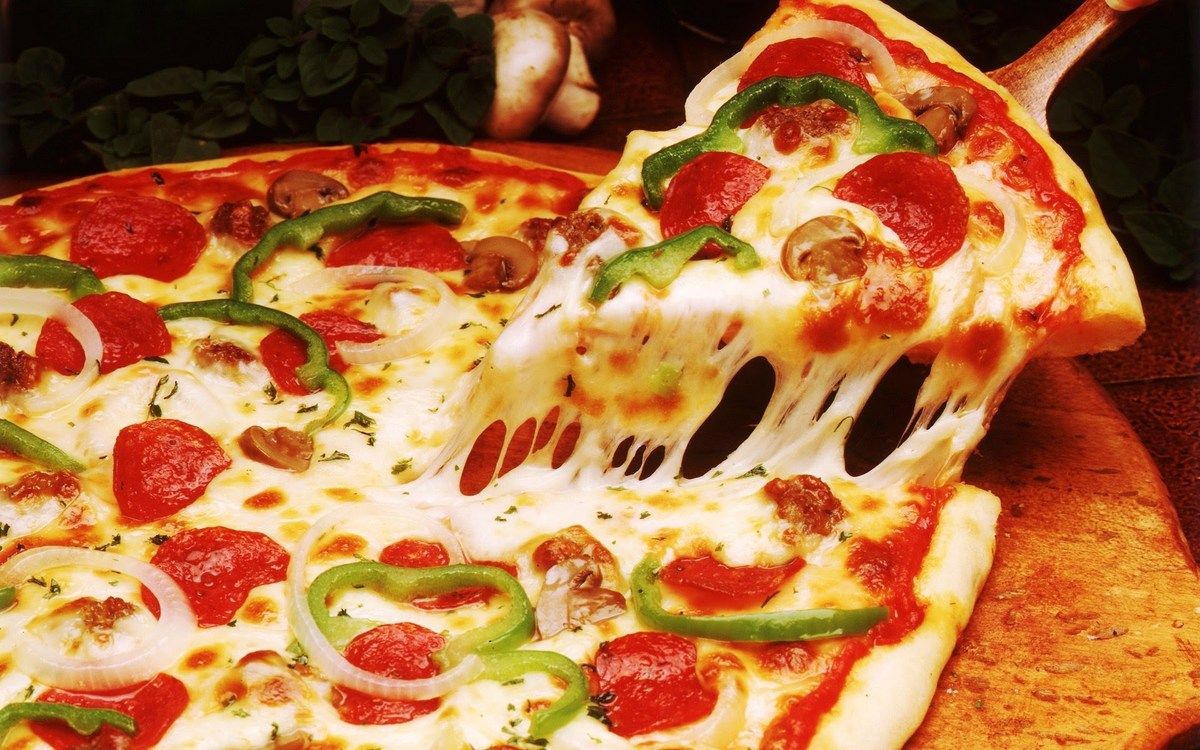
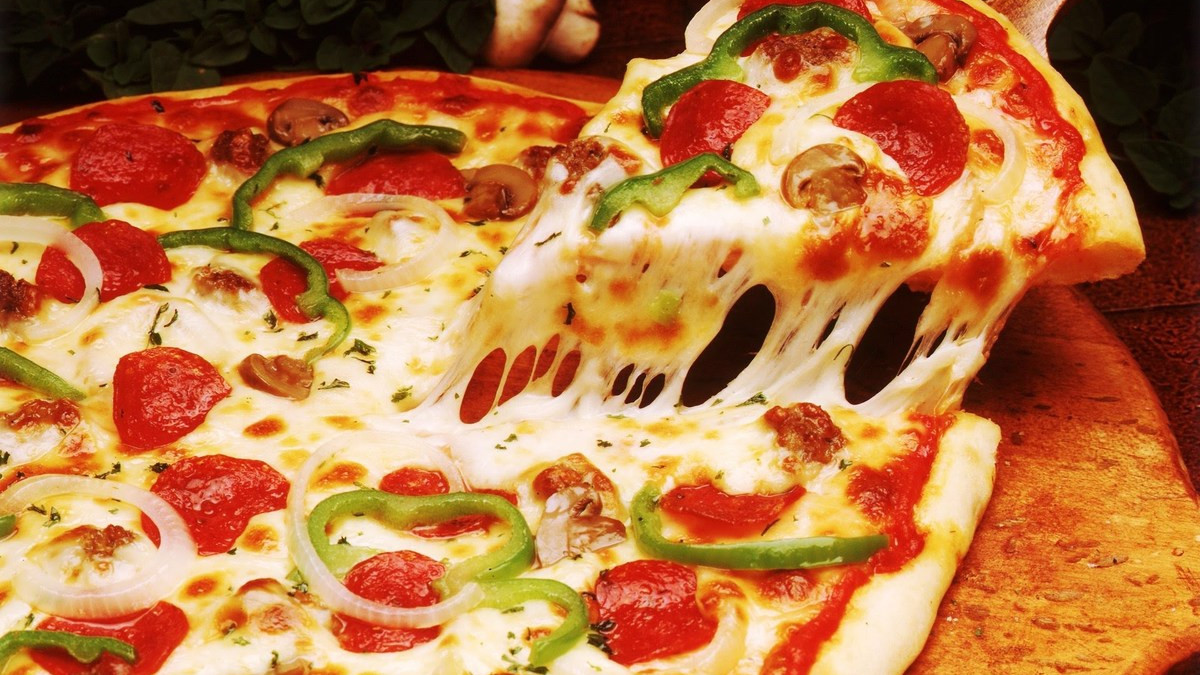
v0.4 anchor on pizza flavours

diff --git a/pizza.html b/pizza.html
@@ -35,7 +35,7 @@
 
 <!-- Header -->
 <header class="w3-display-container w3-content w3-wide" style="max-width:1500px;" id="home">
-  <img class="w3-image" src="./imgs/pizza.jpg" alt="Pizza" width="1500" height="800">
+  <img class="w3-image" src="./imgs/pizza.jpg" alt="Pizza" width="1500" height="800" id="pizzaImage">
   <div class="w3-display-middle w3-margin-top w3-center">
     <h1 class="w3-xxlarge w3-text-white"><span class="w3-padding w3-black w3-opacity-min"><b>Centennial</b></span> <span class="w3-hide-small w3-text-light-grey">pizza</span></h1>
   </div>
@@ -51,37 +51,47 @@
 
   <div class="w3-row-padding">
     <div class="w3-col l3 m6 w3-margin-bottom">
-      <div class="w3-display-container">
-        <div class="w3-display-topleft w3-black w3-padding">Cheddar Supreme</div>
-        <img src="./imgs/cheddar.jpg" alt="Cheddar Supreme" style="width:100%">
-      </div>
+      <a href="#" onClick="onFlavourClick(this)" id="acheddar">
+        <div class="w3-display-container">
+          <div class="w3-display-topleft w3-black w3-padding">Cheddar Supreme</div>
+          <img src="./imgs/cheddar.jpg" alt="Cheddar Supreme" style="width:100%">
+        </div>
+      </a>
     </div>
     <div class="w3-col l3 m6 w3-margin-bottom">
-      <div class="w3-display-container">
-        <div class="w3-display-topleft w3-black w3-padding">Super Hawaiian</div>
-        <img src="./imgs/hawaiian.jpg" alt="Super Hawaiian" style="width:100%">
-      </div>
+      <a href="#" onClick="onFlavourClick(this)" id="ahawaiian">
+        <div class="w3-display-container">
+          <div class="w3-display-topleft w3-black w3-padding">Super Hawaiian</div>
+          <img src="./imgs/hawaiian.jpg" alt="Super Hawaiian" style="width:100%">
+        </div>
+      </a>
     </div>
     <div class="w3-col l3 m6 w3-margin-bottom">
-      <div class="w3-display-container">
-        <div class="w3-display-topleft w3-black w3-padding">Meat Supreme</div>
-        <img src="./imgs/meat.jpg" alt="Meat Supreme" style="width:100%">
-      </div>
+      <a href="#" onClick="onFlavourClick(this)" id="ameat">
+        <div class="w3-display-container">
+          <div class="w3-display-topleft w3-black w3-padding">Meat Supreme</div>
+          <img src="./imgs/meat.jpg" alt="Meat Supreme" style="width:100%">
+        </div>
+      </a>
     </div>
     <div class="w3-col l3 m6 w3-margin-bottom">
-      <div class="w3-display-container">
-        <div class="w3-display-topleft w3-black w3-padding">Veggie</div>
-        <img src="./imgs/veggie.jpg" alt="Veggie" style="width:100%">
-      </div>
+      <a href="#" onClick="onFlavourClick(this)" id="aveggie">
+        <div class="w3-display-container">
+          <div class="w3-display-topleft w3-black w3-padding">Veggie</div>
+          <img src="./imgs/veggie.jpg" alt="Veggie" style="width:100%">
+        </div>
+      </a>
     </div>
   </div>
 
   <div class="w3-row-padding">
     <div class="w3-col l3 m6 w3-margin-bottom">
-      <div class="w3-display-container">
-        <div class="w3-display-topleft w3-black w3-padding">Chocolate Tropical</div>
-        <img src="./imgs/choco.jpg" alt="Chocolate Tropical" style="width:99%">
-      </div>
+      <a href="#" onClick="onFlavourClick(this)" id="achoco">
+        <div class="w3-display-container">
+          <div class="w3-display-topleft w3-black w3-padding">Chocolate Tropical</div>
+          <img src="./imgs/choco.jpg" alt="Chocolate Tropical" style="width:99%">
+        </div>
+      </a>
     </div>
 
     <!--
@@ -170,6 +180,5 @@
   <p>Powered by <a href="https://www.w3schools.com/w3css/default.asp" title="W3.CSS" target="_blank" class="w3-hover-text-green">w3.css</a></p>
 </footer>
 -->
-
 <script src="./architects_files/js"></script>
 </body></html>

diff --git a/pizza.js b/pizza.js
@@ -1,0 +1,33 @@
+const CHEDDAR_IMG="./imgs/cheddar.jpg"
+
+function test() {
+  console.log('on function test')
+}
+
+function onFlavourClick(elt) {
+  switch (elt.id) {
+    case "acheddar":
+      changeImg(CHEDDAR_IMG)
+      break;
+    case "achoco":
+      changeImg(CHOCO_IMG)
+      break;
+    case "ahawaiian":
+      changeImg(HAWAIIAN_IMG)
+      break;
+    case "ameat":
+      changeImg(MEAT_IMG)
+      break;
+    case "aveggie":
+    changeImg(VEGGIE_IMG)
+      break;
+    default:
+      changeImg(DEFAULT_IMG)
+      break;
+  }
+
+}
+
+function changeImg(img) {
+  document.getElementById("pizzaImage").src = img;
+}
